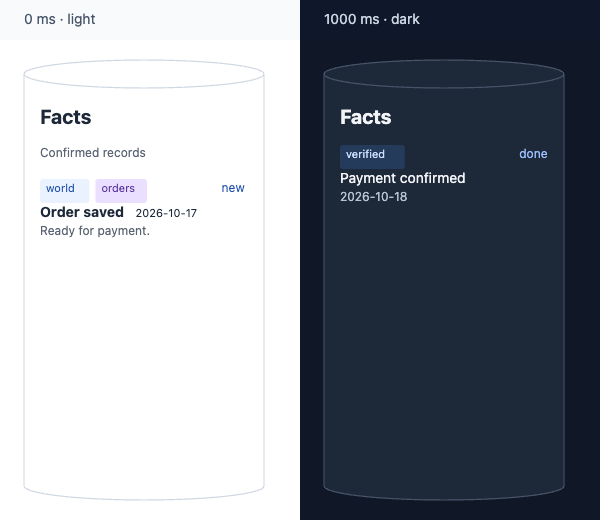
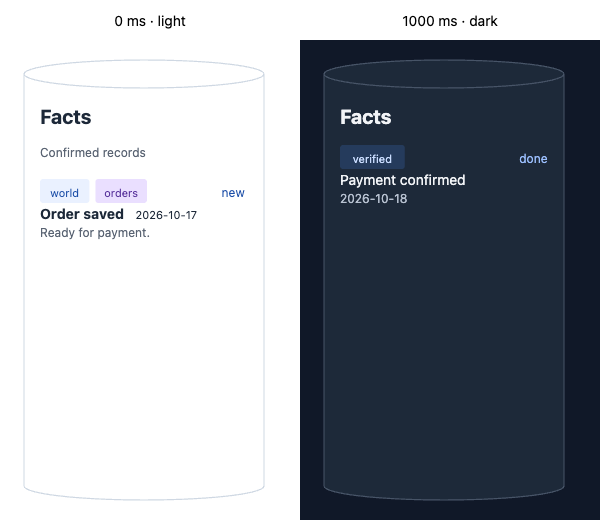
fix(sdk): center rendered text using native font advances

diff --git a/packages/flowsvg/src/core/diagram.ts b/packages/flowsvg/src/core/diagram.ts
@@ -353,7 +353,18 @@ function serializeNodeContent(node: EvaluatedNode, index: number): string {
   const clipId = `diagram-content-clip-${index}-${geometryKey}`;
   const clip = `<defs><clipPath id="${clipId}" clipPathUnits="userSpaceOnUse"><rect x="${formatNumber(safe.x)}" y="${formatNumber(safe.y)}" width="${formatNumber(safe.width)}" height="${formatNumber(safe.height)}"/></clipPath></defs>`;
   const tags = layout.tags.map((tag) => `<rect x="${formatNumber(tag.x)}" y="${formatNumber(tag.y)}" width="${formatNumber(tag.width)}" height="${formatNumber(tag.height)}" rx="${formatNumber(tag.shape === "pill" ? tag.height / 2 : CONTENT_TAG_CORNER_RADIUS)}" fill="${escapeAttribute(tag.fill)}"/>`).join("");
-  const lines = layout.lines.map((line) => `<text x="${formatNumber(line.x)}" y="${formatNumber(line.y)}" fill="${escapeAttribute(line.color)}" font-size="${line.fontSize}" font-weight="${line.fontWeight}" text-anchor="${line.align === "left" ? "start" : line.align === "right" ? "end" : "middle"}">${line.spans.map((span) => `<tspan x="${formatNumber(span.x)}" y="${formatNumber(span.y)}" fill="${escapeAttribute(span.color)}" font-size="${span.fontSize}" font-weight="${span.fontWeight}" text-anchor="start">${escapeText(span.text)}</tspan>`).join("")}</text>`).join("");
+  const lines = layout.lines.map((line) => {
+    const centered = line.align === "center";
+    const anchor = centered ? "middle" : line.align === "right" ? "end" : "start";
+    const spans = line.spans.map((span, spanIndex) => {
+      // Keep a centered line in one SVG text chunk, including mixed-style spans.
+      // Native font advances determine its visible center; estimated widths still own wrapping.
+      const position = centered && spanIndex > 0 ? ""
+        : ` x="${formatNumber(centered ? line.x : span.x)}" y="${formatNumber(span.y)}"`;
+      return `<tspan${position} fill="${escapeAttribute(span.color)}" font-size="${span.fontSize}" font-weight="${span.fontWeight}" text-anchor="${centered ? "middle" : "start"}">${escapeText(span.text)}</tspan>`;
+    }).join("");
+    return `<text x="${formatNumber(line.x)}" y="${formatNumber(line.y)}" fill="${escapeAttribute(line.color)}" font-size="${line.fontSize}" font-weight="${line.fontWeight}" text-anchor="${anchor}">${spans}</text>`;
+  }).join("");
   const graphs = (layout.graphs ?? []).map((graph) => `<g data-content-graph="${graph.blockIndex}" aria-hidden="true">${graph.edges.map((edge) => `<line x1="${formatNumber(edge.x1)}" y1="${formatNumber(edge.y1)}" x2="${formatNumber(edge.x2)}" y2="${formatNumber(edge.y2)}" stroke="${edge.color}"/>`).join("")}${graph.nodes.map((point) => `<circle cx="${formatNumber(point.x)}" cy="${formatNumber(point.y)}" r="${point.radius}" fill="${point.fill}"/>`).join("")}</g>`).join("");
   return `${clip}<g id="diagram-content-${index}" data-content-id="${escapeAttribute(node.id)}" clip-path="url(#${clipId})" opacity="${node.opacity}">${tags}${graphs}${lines}</g>`;
 }

diff --git a/packages/flowsvg/tests/sdk-browser.test.ts b/packages/flowsvg/tests/sdk-browser.test.ts
@@ -57,6 +57,41 @@ async function withPage(run: (page: Page, errors: string[]) => Promise<void>): P
   try { await run(page, errors); } finally { await page.close(); }
 }
 
+it("centers rendered tag text using real font metrics, including styled spans and wrapping", async () => {
+  await withPage(async (page, errors) => {
+    await page.goto(`${origin}/tests/browser-controls.html`);
+    await page.addScriptTag({ type: "module", content: "import * as sdk from '/dist/index.js'; window.tagSdk = sdk;" });
+    await page.waitForFunction("Boolean(window.tagSdk)");
+    const offsets = await page.evaluate(async () => {
+      const sdk: typeof import("../src/index.js") = Reflect.get(window, "tagSdk");
+      const diagram = sdk.createDiagram({ version: 1, viewport: { width: 400, height: 400 },
+        nodes: [{ id: "tags", kind: "rect", x: 0, y: 0, width: 220, height: 380,
+          content: { blocks: [{ type: "list", items: [
+            { tags: [{ text: "Question vector", style: { shape: "pill", fontSize: 12 } }] },
+            { tags: [{ text: "After retrieval", style: { shape: "pill", fontSize: 12 } }] },
+            { tags: [{ text: [{ text: "Mixed " }, { text: "styles", style: { fontWeight: 700, color: "#123456" } }] }] },
+            { tags: [{ text: "A long label that wraps onto another line" }] }
+          ] }] } }], edges: [], scenes: [] });
+      const host = document.createElement("div");
+      document.body.append(host);
+      host.innerHTML = diagram.renderSvg();
+      await document.fonts.ready;
+      const layout = diagram.evaluateAt(0).nodes[0]!.contentLayout!;
+      const texts = host.querySelectorAll<SVGTextElement>('[data-content-id="tags"] text');
+      const result = layout.lines.map((line, index) => {
+        const tag = layout.tags.find((candidate) => candidate.itemIndex === line.itemIndex && candidate.tagIndex === line.tagIndex)!;
+        const box = texts[index]!.getBBox();
+        return { text: line.text, offset: box.x + box.width / 2 - (tag.x + tag.width / 2) };
+      });
+      host.remove();
+      return result;
+    });
+    expect(offsets.length).toBeGreaterThan(4);
+    for (const { text, offset } of offsets) expect(Math.abs(offset), text).toBeLessThan(1);
+    expect(errors).toEqual([]);
+  });
+});
+
 it.each(PAGES)("passes SDK-only %s browser regressions", async (name, resultKey) => {
   await withPage(async (page, errors) => {
     await page.goto(`${origin}/tests/browser-${name}.html`);

diff --git a/packages/flowsvg/src/core/node-content-facts.test.ts b/packages/flowsvg/src/core/node-content-facts.test.ts
@@ -32,6 +32,8 @@ describe("Facts tags and status", () => {
     expect(line.x).toBeCloseTo(tag.x + tag.width / 2);
     expect(line.spans[0]!.x).toBeCloseTo(tag.x + (tag.width - line.width) / 2);
     expect(line.y).toBeCloseTo(tag.y + 17.5);
+    expect(diagram.renderSvg()).toContain(`<tspan x="${line.x}" y="${line.y}"`);
+    expect(diagram.renderSvg()).toMatch(/<tspan[^>]*text-anchor="middle">Current<\/tspan>/);
   });
 
   it.each([null, "circle", 10])("rejects an unsupported tag shape %s at its authored path", (shape) => {

diff --git a/packages/flowsvg/PATTERNS.md b/packages/flowsvg/PATTERNS.md
@@ -52,7 +52,7 @@ Read the sections for the affected subsystem. For public-contract changes, also 
 ## Structured content and typography
 
 - Measure node content while authoring documents, then store explicit dimensions. Share complete consumed block height and unresolved block overflow with fixed-size layout; never infer height from the final baseline. Measure against saturated contour clearance so nonempty cylinders reserve both full cap diameters. Combine explicit versions with their maximum required height, preserve every version/block diagnostic, and reuse nested content validation before layout. Aggregate height maxima and diagnostic entries without expanding authored collections into function arguments. Validate each computed required height before returning; individually finite source values can overflow combined height arithmetic. Accumulate a `DiagramValidationError` issue at each affected `content[index]` path, and keep finite representable results supported. Apply the existing geometric overflow tolerance to outer vertical bounds and graph-label top bounds so changing the authored origin does not create floating-point height warnings. Keep measurement independent of scene scanning, DOM, fonts, clocks and example data.
-- Keep tag shape and centered tag text in the shared content model. Resolve pill corners from final tag height during SVG serialization, after wrapping and baseline alignment. Shape must not change text layout, colors or hit targets; omitted shape keeps rounded corners.
+- Keep tag shape and centered tag text in the shared content model. Resolve pill corners from final tag height during SVG serialization, after wrapping and baseline alignment. Serialize centered spans as one SVG text chunk at the line's center anchor; position only its first span so actual font advances determine horizontal centering. Shape must not change text layout, colors or hit targets; omitted shape keeps rounded corners.
 - Keep entity graph IDs local to a content block. Derive absolute primitives and text from authored local coordinates, serialize inside the parent clip, and retain the parent node as the sole interaction identity.
 - Apply one content-paint function after core layout for timeline highlights and again to current DOM children for browser hover. Preserve explicit color/fill provenance and reuse current geometry. During fill transitions, check default ink against the evaluated node or tag fill and select contrasting ink when interpolated colors lose readability. Restore the current core SVG before hover paint; never restore saved markup or mutate core frames. Content children remain decorative within one node target.
 - Lay out tags in authored rows before status and body. Share a metadata baseline only when natural widths fit, preserve grapheme wrapping inside padded tag boxes, and expose background geometry and explicit-fill provenance alongside text spans. Serialize decorative backgrounds inside the same clip without extra node identities.

diff --git a/docs/assets/image-previews.md b/docs/assets/image-previews.md
@@ -2,9 +2,11 @@
 
 > **Document status:** Supporting maintenance material. The image files, example JSON, SDK exporter, and the guide source are the maintained inputs. The PNG/GIF outputs are release artifacts and must be regenerated when the documented source or rendering defaults change; they do not define the SDK contract.
 
-The PNG files in `packages/flowsvg/docs/images/` show output from the code examples in the [English](../guides/sdk-guide.md) and [Chinese](../guides/sdk-guide.zh-CN.md) SDK guides. They were rendered with FlowSVG 0.1.1 and captured in Chrome at one CSS pixel per diagram unit. All eight PNG files are included in the npm tarball; this maintenance note is not packaged.
+The PNG files in `packages/flowsvg/docs/images/` show output from the code examples in the [English](../guides/sdk-guide.md) and [Chinese](../guides/sdk-guide.zh-CN.md) SDK guides. Capture them in Chrome at one CSS pixel per diagram unit using the render settings below. All eight PNG files are included in the npm tarball; this maintenance note is not packaged.
 
 The previews use the default neutral borders and blue emphasis. The quick-start shows pale blue active nodes and blue message capsules. Facts shows the corresponding light and dark palettes. Refresh all previews when the default theme or line metrics change.
+
+After centered-text changes, refresh the record-tag, Facts timeline and entity-graph previews as well as the lifecycle GIF. Check rendered text bounds against each tag's center in Chromium; estimated layout coordinates alone cannot verify alignment with actual font advances.
 
 ## Typical SDK example
 

diff --git a/docs/guides/sdk-guide.md b/docs/guides/sdk-guide.md
@@ -665,7 +665,7 @@ The `steps` block rendered in a 300 × 180 rectangle with `content: { blocks: [s
 
 ![Two numbered steps with auxiliary text and bold Save text](../../packages/flowsvg/docs/images/numbered-list.png)
 
-Tags accept `{ text, style?: { fontSize, fontWeight, color, fill, shape } }`, with font size 11 by default. `shape` is `rounded` by default; set `shape: "pill"` for capsule corners based on the final tag height. Shape does not change text layout or theme colors. List `tagGap` defaults to 6 and must be finite and nonnegative. Status is right-aligned 12-unit accent text; `statusStyle` accepts `fontSize`, `fontWeight`, and `color`. When space is insufficient, tags wrap and status moves below. Body and auxiliary text follow.
+Tags accept `{ text, style?: { fontSize, fontWeight, color, fill, shape } }`, with font size 11 by default. Tag rows start at the item's left edge; each text line is centered inside its own tag background using the rendered font's advance width. `shape` is `rounded` by default; set `shape: "pill"` for capsule corners based on the final tag height. Shape does not change text layout or theme colors. List `tagGap` defaults to 6 and must be finite and nonnegative. Status is right-aligned 12-unit accent text; `statusStyle` accepts `fontSize`, `fontWeight`, and `color`. When space is insufficient, tags wrap and status moves below. Body and auxiliary text follow.
 
 ```ts
 import type { ContentBlock } from "flowsvg";

diff --git a/docs/guides/sdk-guide.zh-CN.md b/docs/guides/sdk-guide.zh-CN.md
@@ -665,7 +665,7 @@ const steps: ContentBlock = { type: "list", marker: "number", style: { itemGap: 
 
 ![包含辅助文字和加粗保存文字的两个编号步骤](../../packages/flowsvg/docs/images/numbered-list.zh-CN.png)
 
-文字标签接受 `{ text, style?: { fontSize, fontWeight, color, fill, shape } }`，默认字号 11。`shape` 默认为 `rounded`；设为 `shape: "pill"` 时，圆角随标签最终高度形成胶囊。形状不改变文字排版或主题颜色。列表 `tagGap` 默认 6，须为非负有限数。状态靠右，使用 12 单位强调色；`statusStyle` 支持 `fontSize`、`fontWeight`、`color`。空间不足时，标签换行，状态移至下方。正文、辅助文字随后排列。
+文字标签接受 `{ text, style?: { fontSize, fontWeight, color, fill, shape } }`，默认字号 11。标签行从项目左侧开始排列；标签内每行文字根据实际渲染字体的排字宽度，在各自背景内水平居中。`shape` 默认为 `rounded`；设为 `shape: "pill"` 时，圆角随标签最终高度形成胶囊。形状不改变文字排版或主题颜色。列表 `tagGap` 默认 6，须为非负有限数。状态靠右，使用 12 单位强调色；`statusStyle` 支持 `fontSize`、`fontWeight`、`color`。空间不足时，标签换行，状态移至下方。正文、辅助文字随后排列。
 
 ```ts
 import type { ContentBlock } from "flowsvg";

diff --git a/packages/flowsvg/CHANGELOG.md b/packages/flowsvg/CHANGELOG.md
@@ -4,6 +4,7 @@
 
 - Ship the background task lifecycle example and README GIF with English labels and captions. Keep the standalone document and existing task transitions.
 - Center decorative tag text inside its rounded or pill background while preserving authored tag rows and dimensions.
+- Keep centered text in one SVG text chunk, including mixed-style tag spans. Use actual font advances for horizontal centering instead of estimated span positions.
 
 ## 0.2.2 - 2026-10-28
 
